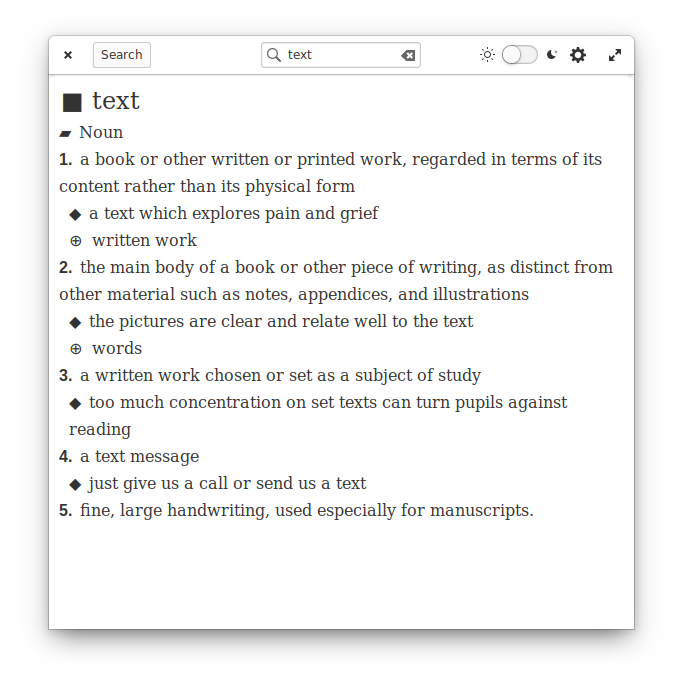
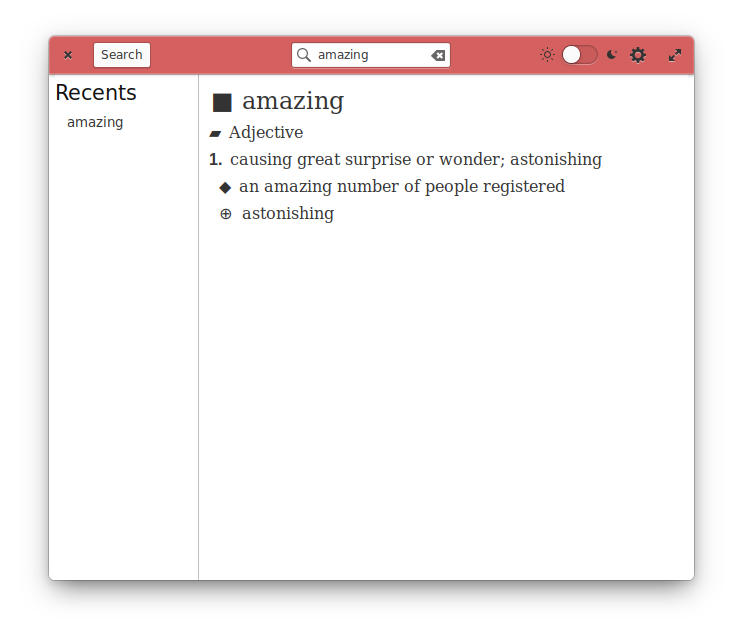
Recents pane

Changed region(s): [[0.0615, 0.0312, 0.9531, 0.9346]]

diff --git a/data/stylesheet.css b/data/stylesheet.css
@@ -1,10 +1,12 @@
+@define-color color_primary #C85050;
+
 .palaura-window {
-    background-color: #FFF;
+    background-color: @color_primary;
     color: #111;
 }
 
 .palaura-window-dark {
-    background-color: #111;
+    background-color: shade(@color_primary, 1.4);
     color: #FFF;
 }
 
@@ -38,4 +40,13 @@
 
 .palaura-toolbar {
     background: shade(@color_primary, 1.1);
+}
+
+.palaura-recents,
+.palaura-recents treeview.view {
+    background: @base_color;
+}
+
+.palaura-recents {
+    border-right: 1px solid alpha(black, 0.25);
 }
